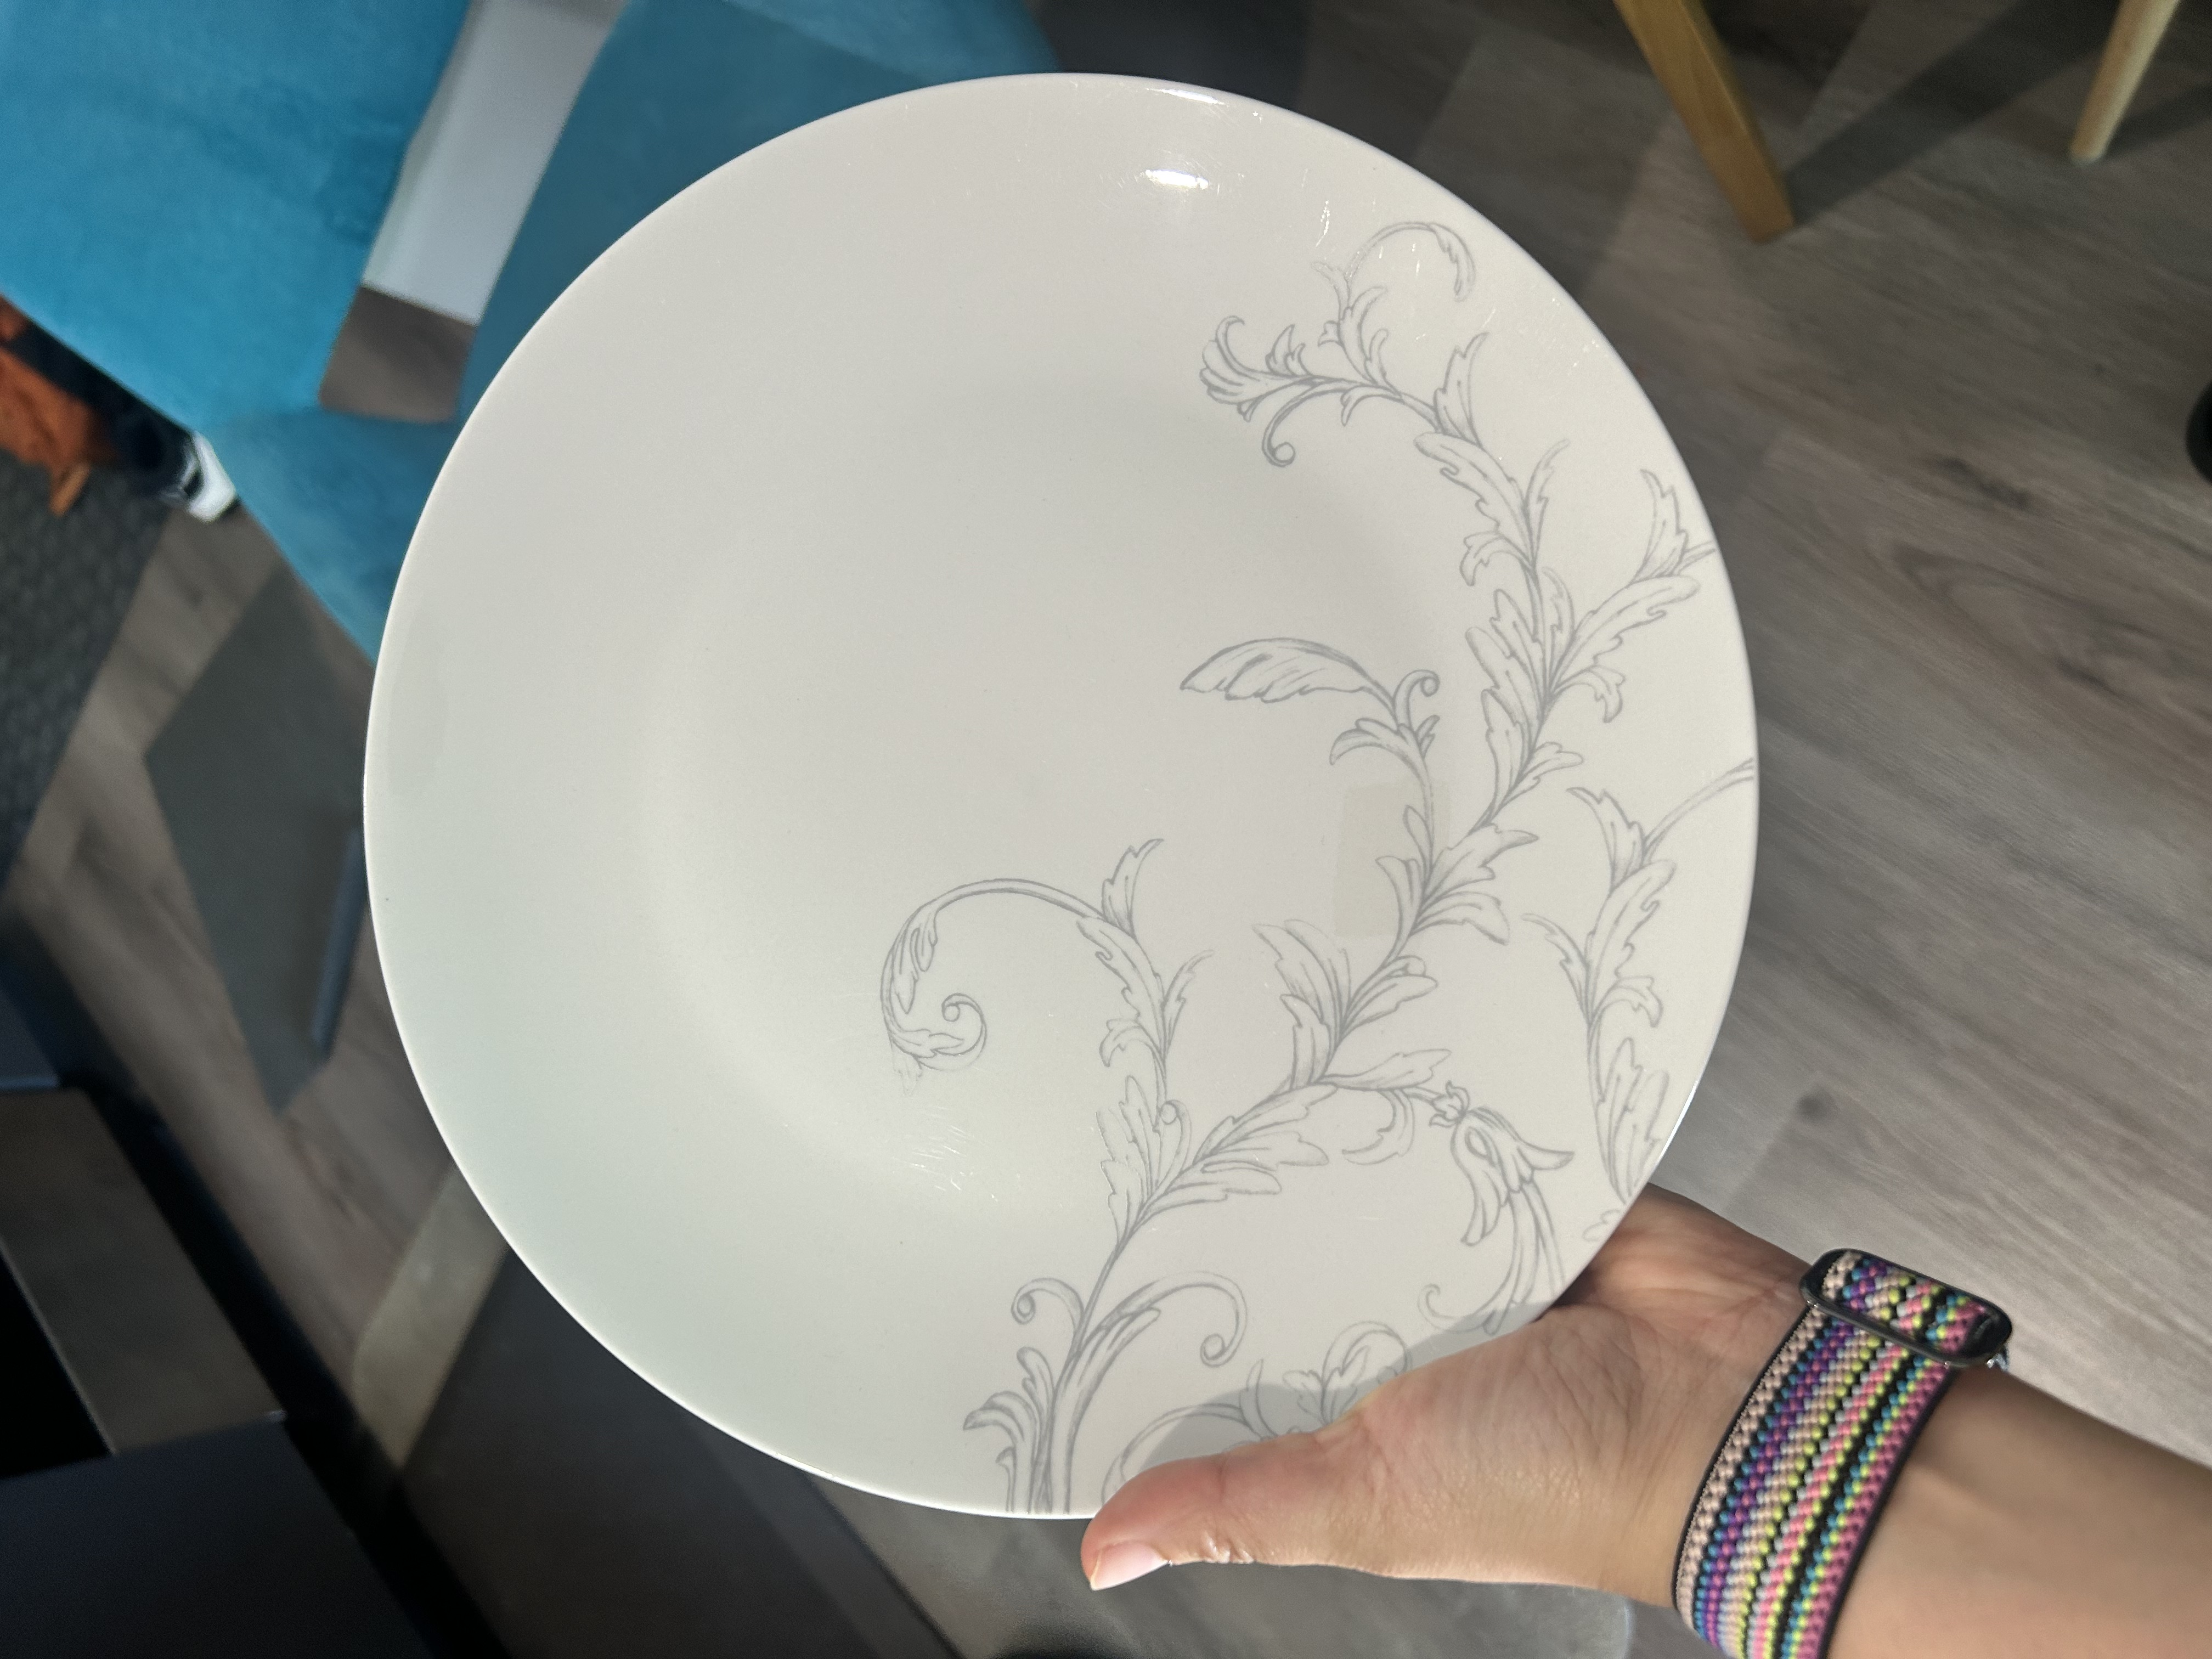
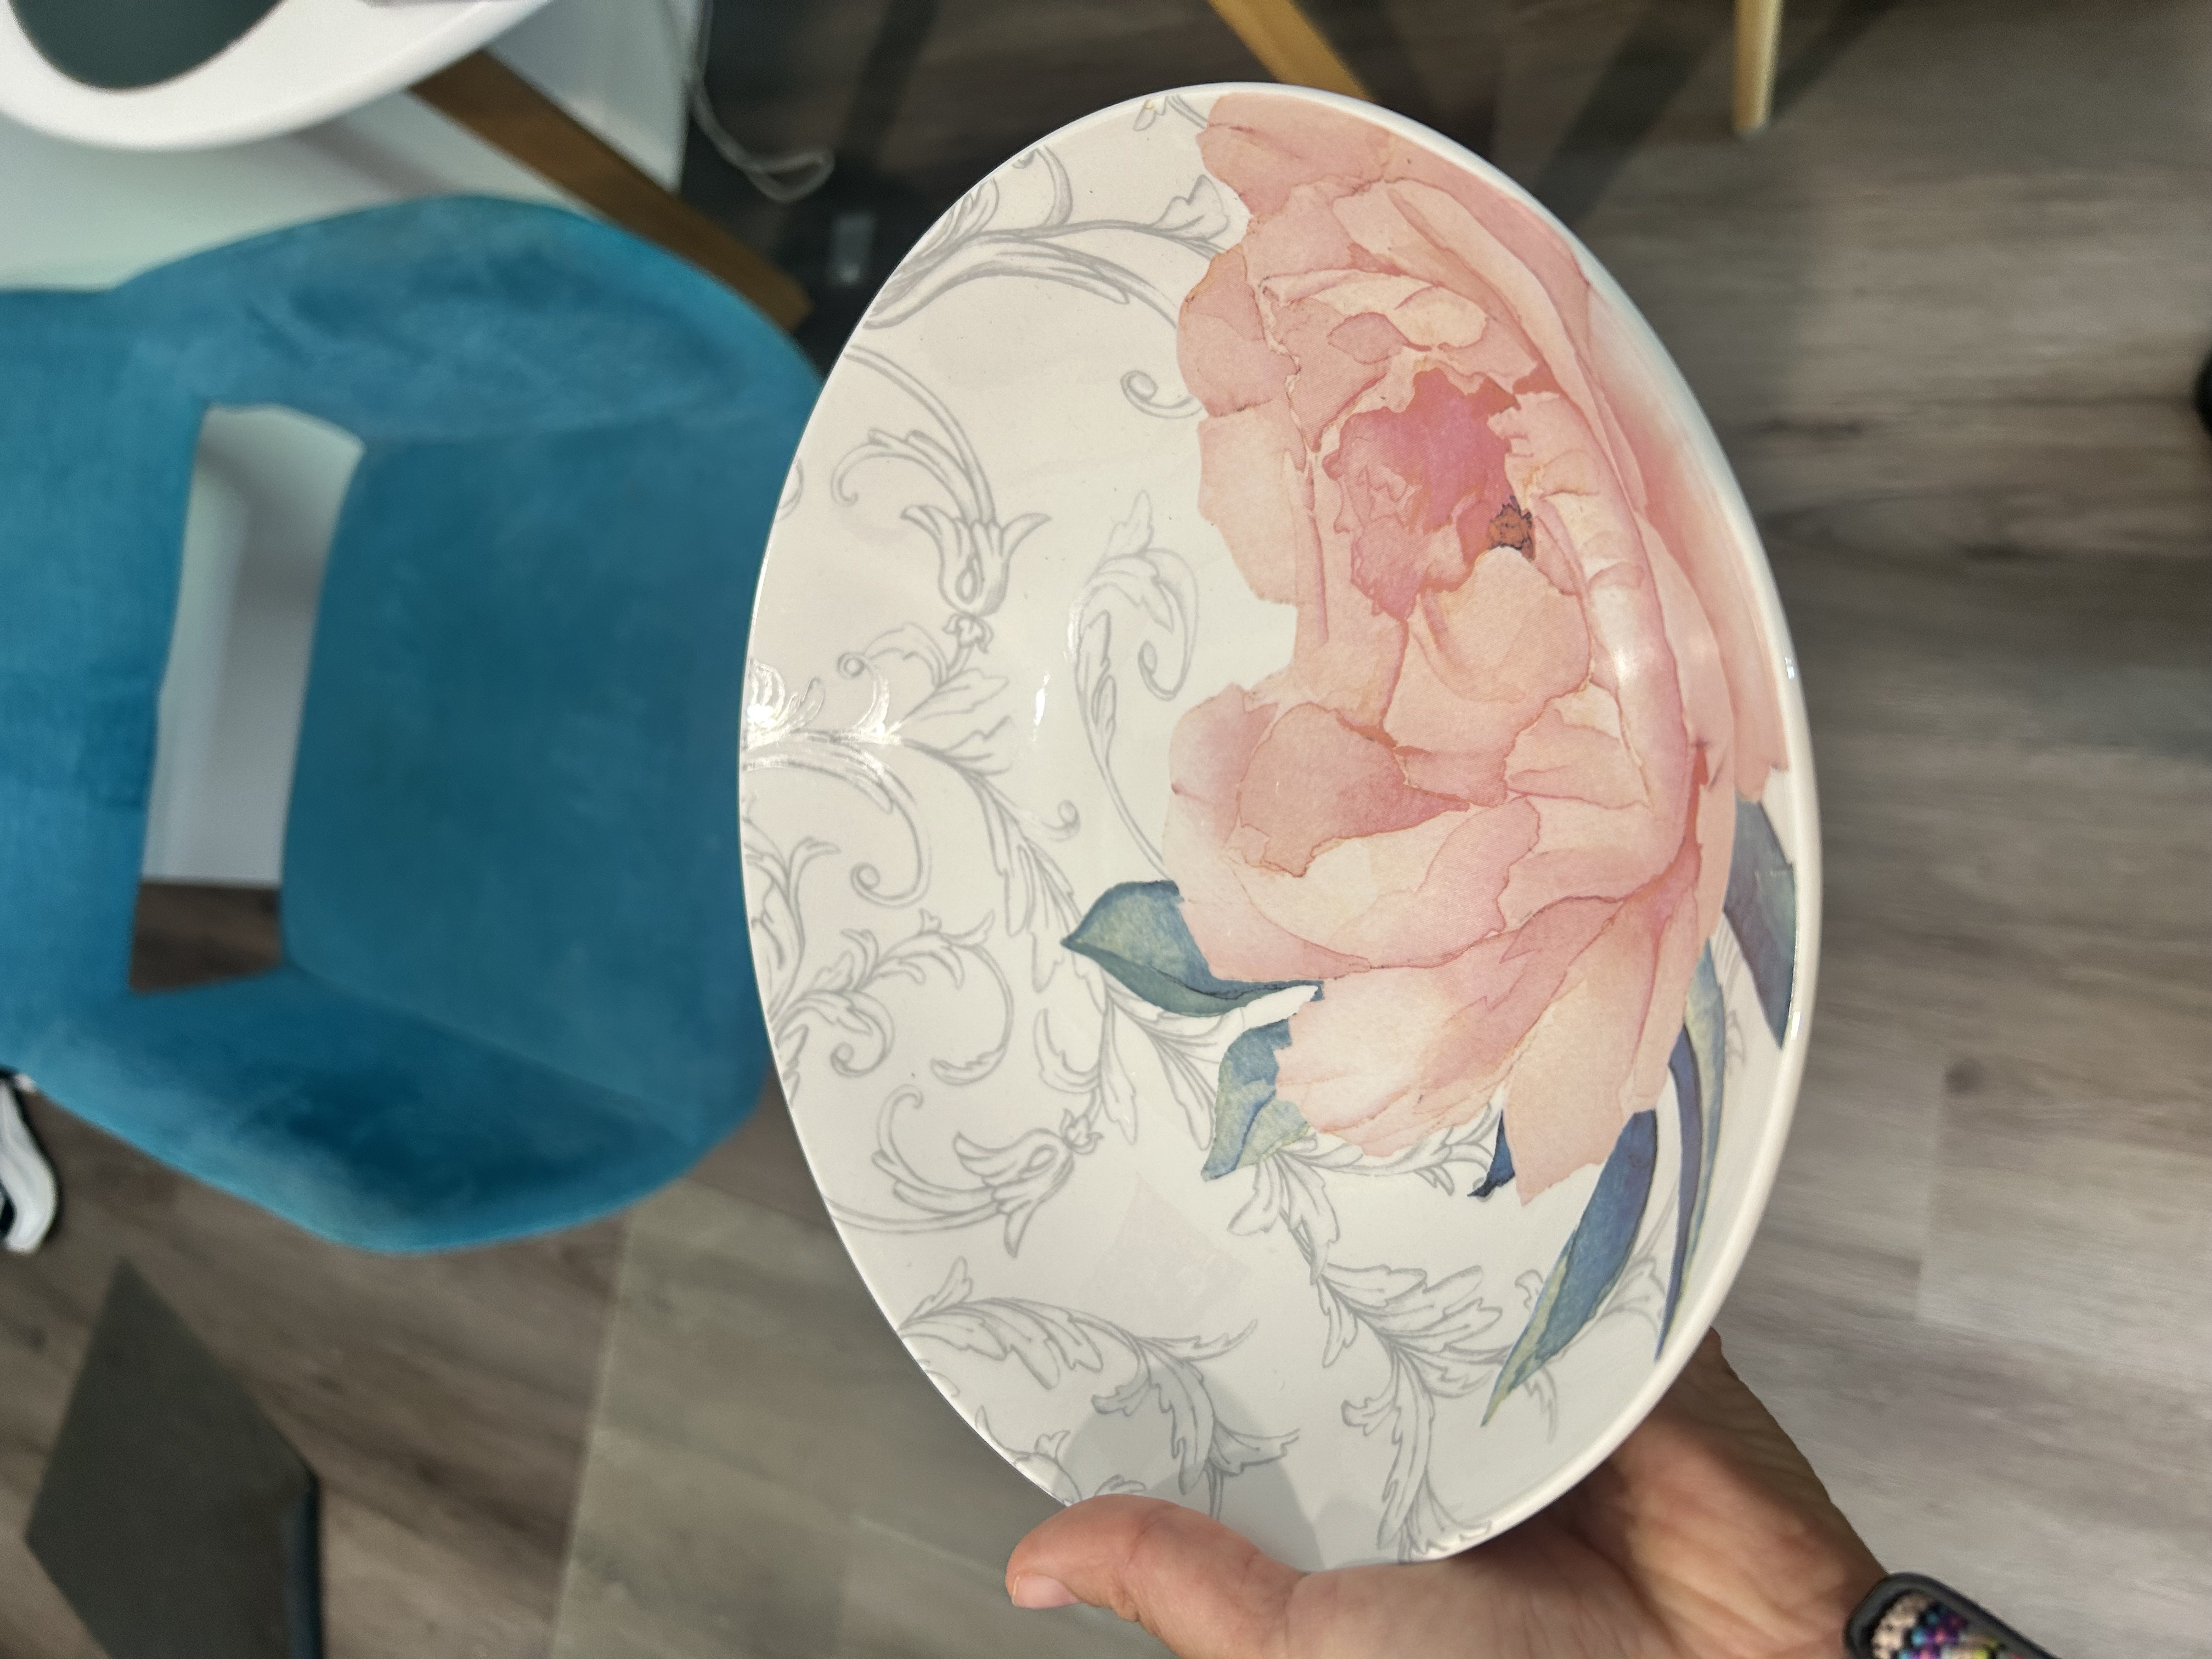
content(catalog): add household items

diff --git a/content/products/desk-bureau/index.md b/content/products/desk-bureau/index.md
@@ -1,0 +1,24 @@
+---
+title: "Desk / Bureau "
+price: 20
+date: 2026-06-19T18:09:31.990Z
+draft: false
+categories: ["Furniture"]
+referenceUrl: "https://www.ikea.com/ca/en/p/pahl-desk-height-adjustable-white-s49619340/#content"
+availableFrom: "2026-08-16"
+weight: 17
+sold: false
+onHold: false
+---
+The desk is otherwise functional and a practical addition to any workspace. Sold as-is. Pick up only.
+
+There are decorative stickers on the main desktop surface (visible in the photo) which were placed to cover a scratch.
+
+There is a visible stain on the side of the desk frame (please examine the images closely).
+_________________________________________
+Le bureau est par ailleurs fonctionnel et constitue un ajout pratique à tout espace de travail. Vendu en l'état.  À venir chercher sur place.
+
+Des autocollants décoratifs se trouvent sur la surface principale du bureau (visibles sur la photo), apposés pour masquer une éraflure.
+
+Une tache visible est présente sur le côté du cadre du bureau (veuillez examiner attentivement les images).
+

diff --git a/content/products/gardening-planters-pots-and-watering-can-set-lot-de-jardinieres-pots-et-arrosoir-de-jardinage/index.md b/content/products/gardening-planters-pots-and-watering-can-set-lot-de-jardinieres-pots-et-arrosoir-de-jardinage/index.md
@@ -1,0 +1,23 @@
+---
+title: "Gardening Planters, Pots, and Watering Can Set / Lot de Jardinières, Pots et Arrosoir de Jardinage"
+price: 5
+date: 2026-06-19T18:13:14.876Z
+draft: false
+categories: ["garden"]
+referenceUrl: ""
+availableFrom: ""
+weight: 17
+sold: false
+onHold: false
+---
+3 Rectangular Window Boxes / Planters: Made of durable plastic
+2 Small Round Pots: One classic terracotta clay/ceramic pot, and one set of stacked plastic pots (mint green and grey).
+
+1 Vintage-style Watering Can
+
+1 Small Hand Trowel/Shovel: Metal blade with a colorful patterned handle 
+___________________________________________
+3 Jardinières rectangulaires 
+2 Petits pots ronds : Un pot classique en terre cuite/argile, y un ensemble de pots emboîtés en plastique
+1 Arrosoir style vintage : En métal peint en vert clair
+1 Petite pelle de jardinage (transplantoir)

diff --git a/content/products/official-drivers-handbook-excellent-condition/index.md b/content/products/official-drivers-handbook-excellent-condition/index.md
@@ -1,0 +1,13 @@
+---
+title: "Official Driver's Handbook - Excellent Condition"
+price: 5
+date: 2026-06-19T17:33:24.862Z
+draft: false
+categories: ["Book"]
+referenceUrl: ""
+availableFrom: ""
+weight: 16
+sold: false
+onHold: false
+---
+Looking to ace your knowledge test? I’m selling this official Driver's Handbook. It is an essential resource for anyone learning to drive or looking to refresh their knowledge of road rules, traffic signs, and safe driving practices

diff --git a/content/products/fine-ceramic-dinnerware-pieces-lot-de-vaisselle-en-ceramique-fine/index.md b/content/products/fine-ceramic-dinnerware-pieces-lot-de-vaisselle-en-ceramique-fine/index.md
@@ -8,6 +8,7 @@ referenceUrl: ""
 availableFrom: ""
 weight: 17
 sold: false
+onHold: false
 ---
 Beautiful Martha Stewart dinnerware pieces from the Empress Bouquet collection (fine ceramic with floral design). The pieces are clean and in excellent condition.
 